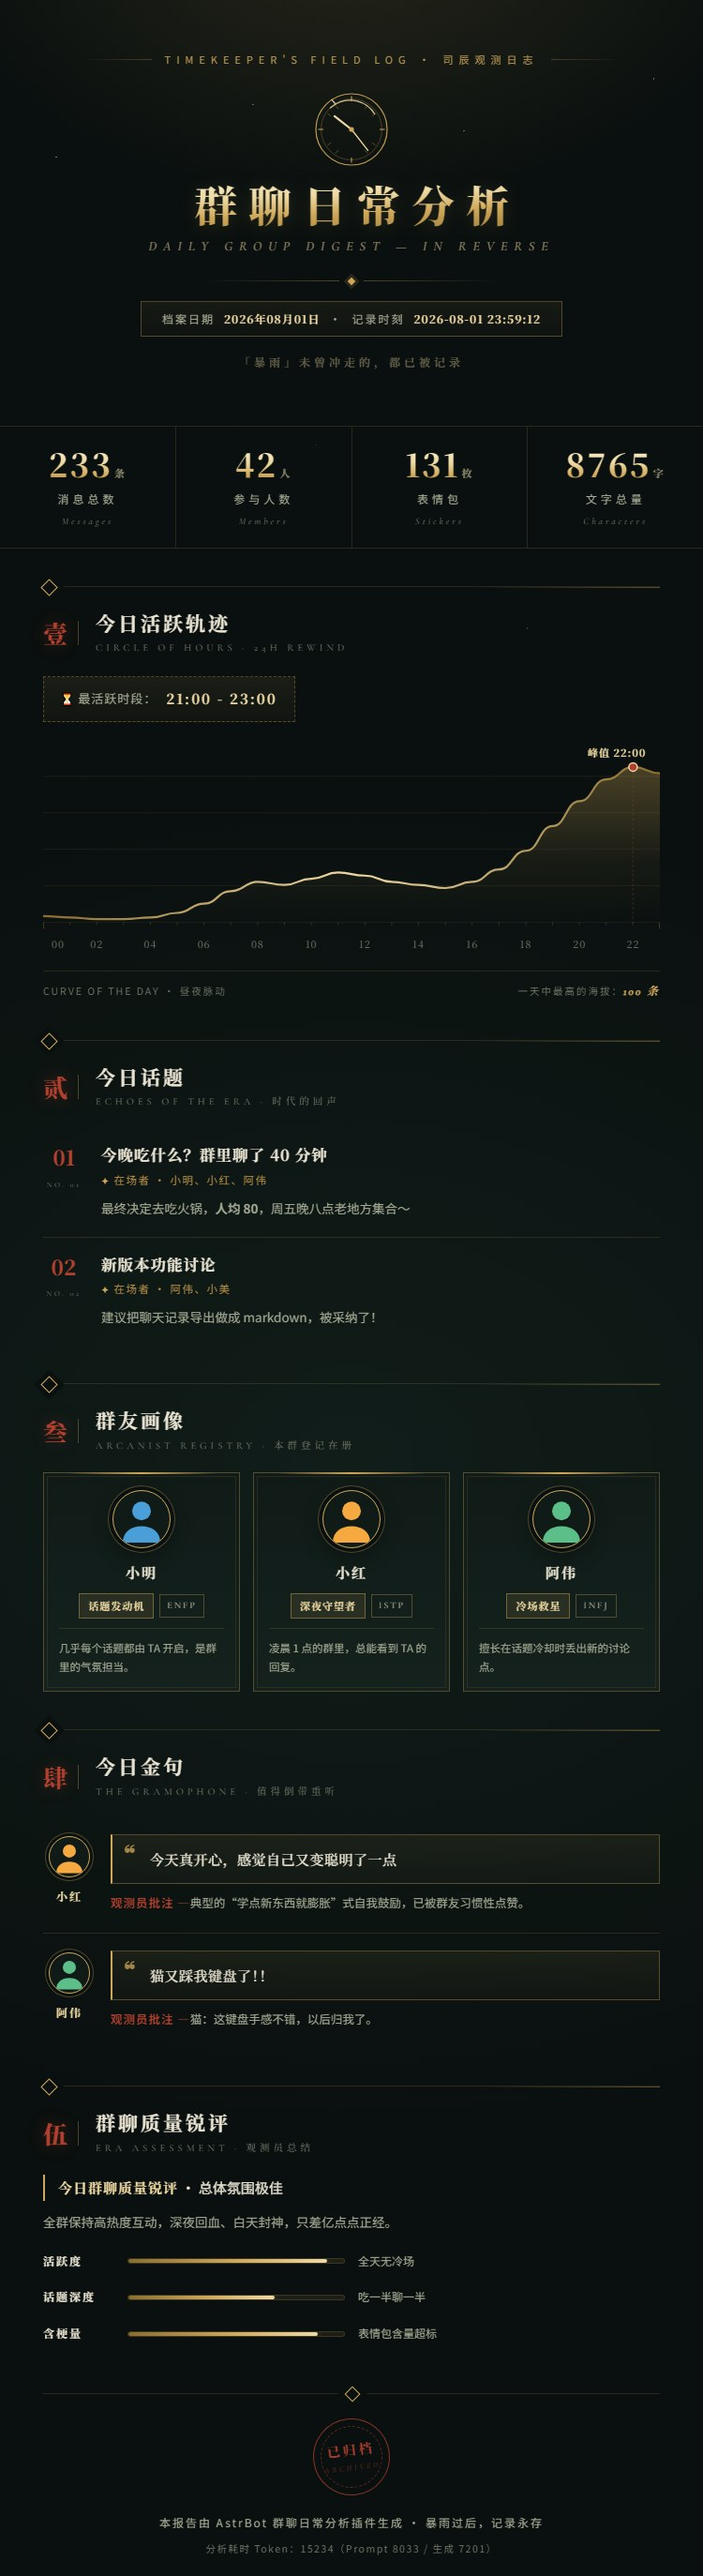
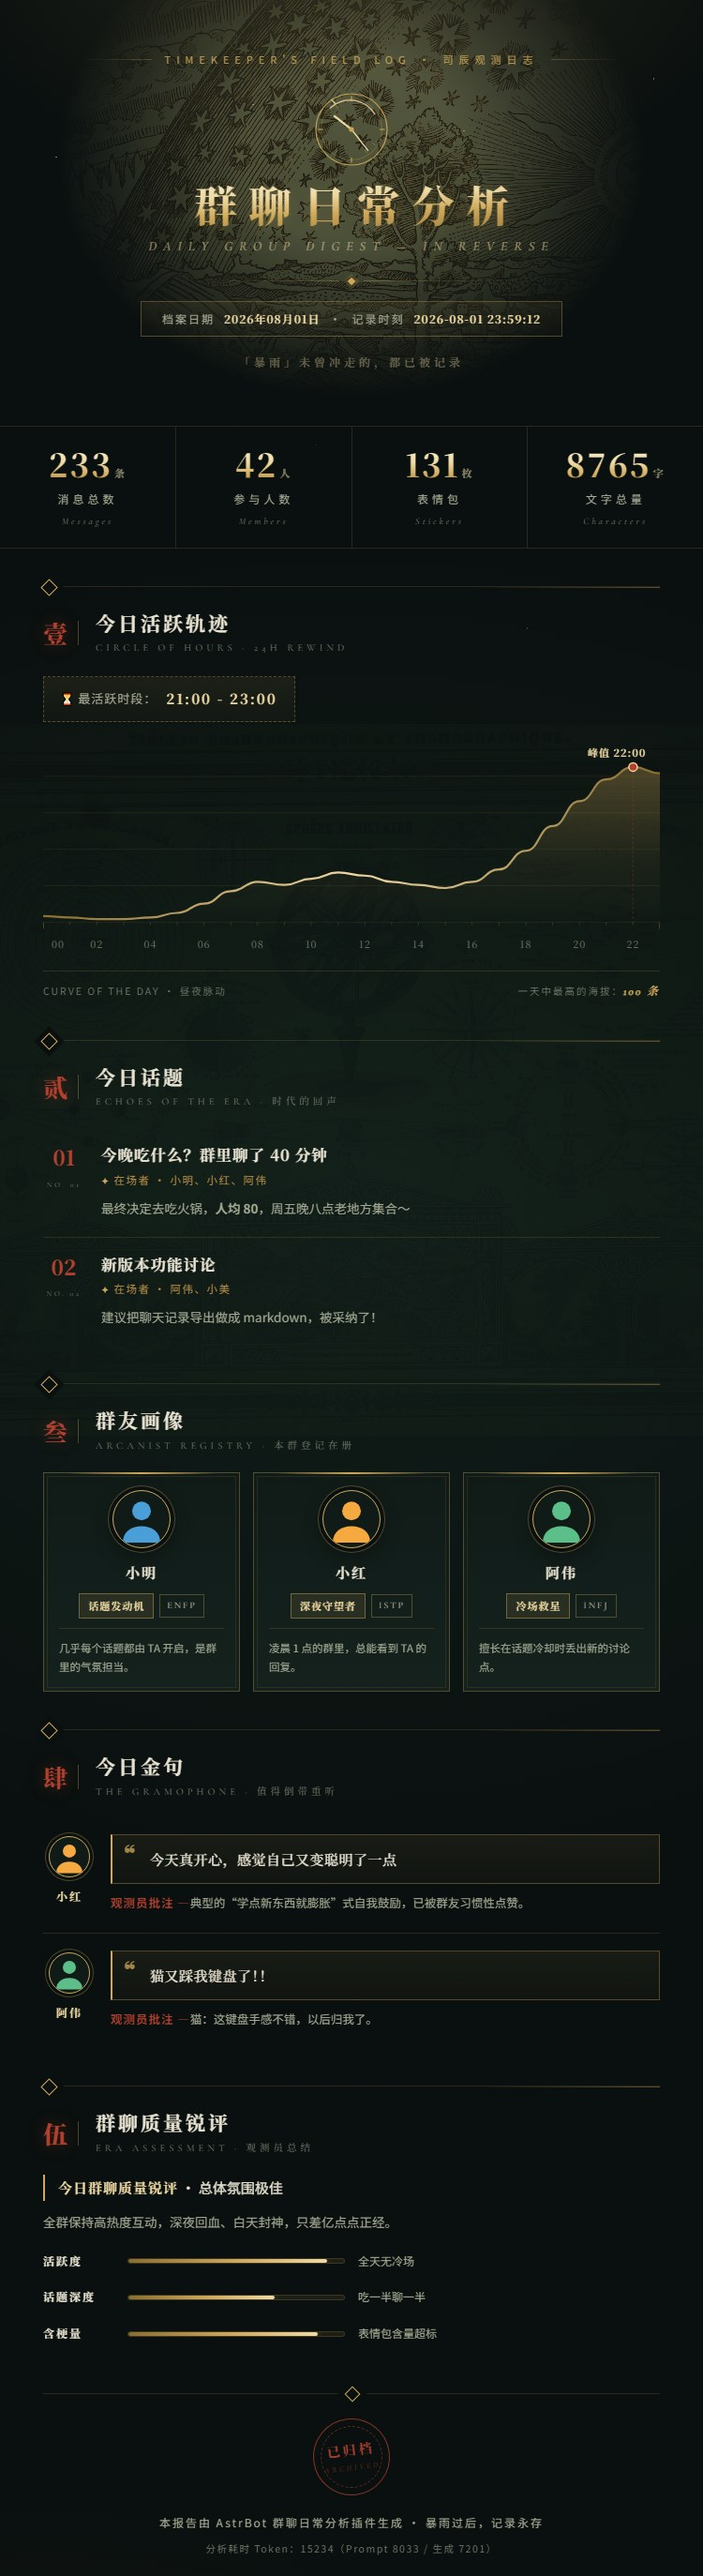
feat(gda_reverse_1999): 引入 Wikimedia 公共领域版画装饰
- 报头：Flammarion 1888 木刻版画（PD 特色图片）做鎏金星图背景（screen 混合＋径向遮罩）
- 全页：Vuillemin 1852 宇宙志图做古籍水印（soft-light 9%）
- 修复 .masthead>* 选择器特异性压掉 .mast-art absolute 导致版面被顶高 736px 的问题
- 移除 background-attachment: fixed（与截图裁剪逻辑冲突）
- generate_preview.py 预览时以本地副本替换直链，避免预览机被 Wikimedia 429 限流
- README 补充装饰图来源与授权说明

Changed region(s): [[0.184, 0.0, 0.828, 0.1547]]

diff --git a/gda_reverse_1999/html_template.html b/gda_reverse_1999/html_template.html
@@ -46,7 +46,6 @@
                 radial-gradient(ellipse 900px 700px at 50% 46%, rgba(22, 40, 34, 0.55) 0%, transparent 100%),
                 radial-gradient(ellipse 700px 500px at 8% 108%, rgba(207, 168, 90, 0.05) 0%, transparent 70%);
             background-repeat: no-repeat;
-            background-attachment: fixed;
         }
 
         body {
@@ -74,6 +73,22 @@
             margin: 0 auto;
             padding: 0 48px 72px;
             position: relative;
+            overflow: hidden;
+        }
+
+        /* 全页古籍水印（Vuillemin 1852 宇宙图，Wikimedia 直链，PD 版权） */
+        .page-art {
+            position: absolute;
+            inset: 0;
+            pointer-events: none;
+            z-index: 0;
+            background-image: url("https://upload.wikimedia.org/wikipedia/commons/thumb/3/32/1852_Vuillemin_Astronomical_and_Cosmographical_Chart_-_Geographicus_-_Cosmographique-vuillemin-1852.jpg/1280px-1852_Vuillemin_Astronomical_and_Cosmographical_Chart_-_Geographicus_-_Cosmographique-vuillemin-1852.jpg");
+            background-position: center 38%;
+            background-size: 135% auto;
+            background-repeat: no-repeat;
+            opacity: 0.09;
+            mix-blend-mode: soft-light;
+            filter: sepia(0.85) saturate(1.5);
         }
 
         /* 星点 */
@@ -108,6 +123,33 @@
             text-align: center;
             padding: 56px 12px 30px;
             position: relative;
+            overflow: hidden;
+            border-radius: var(--radius);
+        }
+
+        /* 鎏金星图（Flammarion 1888 版画，Wikimedia 直链，PD 版权） */
+        .mast-art {
+            position: absolute;
+            left: 50%;
+            top: 46%;
+            width: 940px;
+            height: 854px;
+            transform: translate(-50%, -50%);
+            background-image: url("https://upload.wikimedia.org/wikipedia/commons/thumb/d/dd/FlammarionWoodcut.jpg/1280px-FlammarionWoodcut.jpg");
+            background-position: 50% 46%;
+            background-size: contain;
+            background-repeat: no-repeat;
+            mix-blend-mode: screen;
+            opacity: 0.3;
+            filter: grayscale(1) sepia(0.9) saturate(2.6) brightness(0.88);
+            -webkit-mask-image: radial-gradient(ellipse 55% 50% at 50% 46%, #000 26%, transparent 70%);
+            mask-image: radial-gradient(ellipse 55% 50% at 50% 46%, #000 26%, transparent 70%);
+            pointer-events: none;
+        }
+
+        .masthead>*:not(.mast-art) {
+            position: relative;
+            z-index: 1;
         }
 
         .mast-kicker {
@@ -889,10 +931,12 @@
 
 <body>
     <div class="page">
+        <div class="page-art"></div>
         <div class="stars"></div>
 
         <!-- 报头 -->
         <div class="masthead">
+            <div class="mast-art"></div>
             <div class="mast-kicker">TIMEKEEPER'S FIELD LOG · 司辰观测日志</div>
             <svg class="hero-clock" width="88" height="88" viewBox="0 0 84 84" fill="none" xmlns="http://www.w3.org/2000/svg">
                 <circle cx="42" cy="42" r="38" stroke="#cfa85a" stroke-width="1.2" opacity="0.9" />

diff --git a/gda_reverse_1999/image_template.html b/gda_reverse_1999/image_template.html
@@ -46,7 +46,6 @@
                 radial-gradient(ellipse 900px 700px at 50% 46%, rgba(22, 40, 34, 0.55) 0%, transparent 100%),
                 radial-gradient(ellipse 700px 500px at 8% 108%, rgba(207, 168, 90, 0.05) 0%, transparent 70%);
             background-repeat: no-repeat;
-            background-attachment: fixed;
         }
 
         body {
@@ -76,6 +75,22 @@
             margin: 0 auto;
             padding: 0 46px 64px;
             position: relative;
+            overflow: hidden;
+        }
+
+        /* 全页古籍水印（Vuillemin 1852 宇宙图，Wikimedia 直链，PD 版权） */
+        .page-art {
+            position: absolute;
+            inset: 0;
+            pointer-events: none;
+            z-index: 0;
+            background-image: url("https://upload.wikimedia.org/wikipedia/commons/thumb/3/32/1852_Vuillemin_Astronomical_and_Cosmographical_Chart_-_Geographicus_-_Cosmographique-vuillemin-1852.jpg/1280px-1852_Vuillemin_Astronomical_and_Cosmographical_Chart_-_Geographicus_-_Cosmographique-vuillemin-1852.jpg");
+            background-position: center 38%;
+            background-size: 135% auto;
+            background-repeat: no-repeat;
+            opacity: 0.09;
+            mix-blend-mode: soft-light;
+            filter: sepia(0.85) saturate(1.5);
         }
 
         /* 星点 */
@@ -110,6 +125,33 @@
             text-align: center;
             padding: 44px 12px 26px;
             position: relative;
+            overflow: hidden;
+            border-radius: var(--radius);
+        }
+
+        /* 鎏金星图（Flammarion 1888 版画，Wikimedia 直链，PD 版权） */
+        .mast-art {
+            position: absolute;
+            left: 50%;
+            top: 46%;
+            width: 810px;
+            height: 736px;
+            transform: translate(-50%, -50%);
+            background-image: url("https://upload.wikimedia.org/wikipedia/commons/thumb/d/dd/FlammarionWoodcut.jpg/1280px-FlammarionWoodcut.jpg");
+            background-position: 50% 46%;
+            background-size: contain;
+            background-repeat: no-repeat;
+            mix-blend-mode: screen;
+            opacity: 0.3;
+            filter: grayscale(1) sepia(0.9) saturate(2.6) brightness(0.88);
+            -webkit-mask-image: radial-gradient(ellipse 55% 50% at 50% 46%, #000 26%, transparent 70%);
+            mask-image: radial-gradient(ellipse 55% 50% at 50% 46%, #000 26%, transparent 70%);
+            pointer-events: none;
+        }
+
+        .masthead>*:not(.mast-art) {
+            position: relative;
+            z-index: 1;
         }
 
         .mast-kicker {
@@ -837,10 +879,12 @@
 
 <body>
     <div class="page">
+        <div class="page-art"></div>
         <div class="stars"></div>
 
         <!-- 报头 -->
         <div class="masthead">
+            <div class="mast-art"></div>
             <div class="mast-kicker">TIMEKEEPER'S FIELD LOG · 司辰观测日志</div>
             <svg class="hero-clock" width="84" height="84" viewBox="0 0 84 84" fill="none" xmlns="http://www.w3.org/2000/svg">
                 <circle cx="42" cy="42" r="38" stroke="#cfa85a" stroke-width="1.2" opacity="0.9" />

diff --git a/generate_preview.py b/generate_preview.py
@@ -151,6 +151,22 @@ main_ctx = {
 }
 preview_html = env.get_template("image_template.html").render(**main_ctx)
 
+# 模板中的 Wikimedia 直链在预览渲染时替换为本地副本（assets/<模板名>/art/），
+# 避免预览机 IP 被 Wikimedia 限流（429）导致截图缺少装饰图；模板文件本身仍引用直链。
+_ART_DIR = ROOT / "assets" / TPL_NAME / "art"
+_ART_URLS = {
+    "https://upload.wikimedia.org/wikipedia/commons/thumb/d/dd/FlammarionWoodcut.jpg/1280px-FlammarionWoodcut.jpg":
+        _ART_DIR / "FlammarionWoodcut-1280px.jpg",
+    ("https://upload.wikimedia.org/wikipedia/commons/thumb/3/32/"
+     "1852_Vuillemin_Astronomical_and_Cosmographical_Chart_-_Geographicus_-_Cosmographique-vuillemin-1852.jpg/"
+     "1280px-1852_Vuillemin_Astronomical_and_Cosmographical_Chart_-_Geographicus_-_Cosmographique-vuillemin-1852.jpg"):
+        _ART_DIR / "Vuillemin-1852-1280px.jpg",
+}
+for url, local in _ART_URLS.items():
+    if local.is_file() and url in preview_html:
+        preview_html = preview_html.replace(url, local.as_uri())
+        print(f"[art] 预览时替换为本地副本: {local.name}")
+
 with tempfile.TemporaryDirectory(prefix="tpl_preview_") as tmp:
     tmp_dir = Path(tmp)
     html_path = tmp_dir / "preview.html"

diff --git a/README.md b/README.md
@@ -150,6 +150,21 @@ python generate_preview.py [模板名]     # 缺省为 gda_reverse_1999
 `verify_demo.py` 的 mock 数据在生成脚本中扩展成了更完整的示例内容
 （3 位群友、2 条金句、质量锐评等），修改模板后重跑即可刷新预览图。
 
+## 装饰图来源（公共领域，Wikimedia 直链）
+
+模板报头与全页水印直接引用 Wikimedia Commons 上两张**公共领域**古版画（绝对 URL，
+CDN 无防盗链、无需署名，符合「模板内引用图片」规范）：
+
+- **Flammarion 木刻版画**（1888，佚名，PD，维基百科特色图片）—— 报头背后的鎏金星图：
+  `https://upload.wikimedia.org/wikipedia/commons/thumb/d/dd/FlammarionWoodcut.jpg/1280px-FlammarionWoodcut.jpg`
+- **Vuillemin 1852 宇宙志图**（A. Vuillemin，PD）—— 全页古籍水印：
+  `https://upload.wikimedia.org/wikipedia/commons/thumb/3/32/1852_Vuillemin_Astronomical_and_Cosmographical_Chart_-_Geographicus_-_Cosmographique-vuillemin-1852.jpg/1280px-1852_Vuillemin_Astronomical_and_Cosmographical_Chart_-_Geographicus_-_Cosmographique-vuillemin-1852.jpg`
+
+两份装饰图在模板里通过 `background-image` 引用（失败时优雅降级、不破坏版面）。
+`assets/<模板名>/art/` 下保存了本地副本：`generate_preview.py` 渲染预览图时会把直链
+替换为本地文件 `file://` 路径，避免预览机 IP 被 Wikimedia 限流（429）导致截图缺图；
+**模板文件本身始终引用直链，不依赖本地副本**。
+
 ## 许可
 
 MIT，可自由复制修改。
